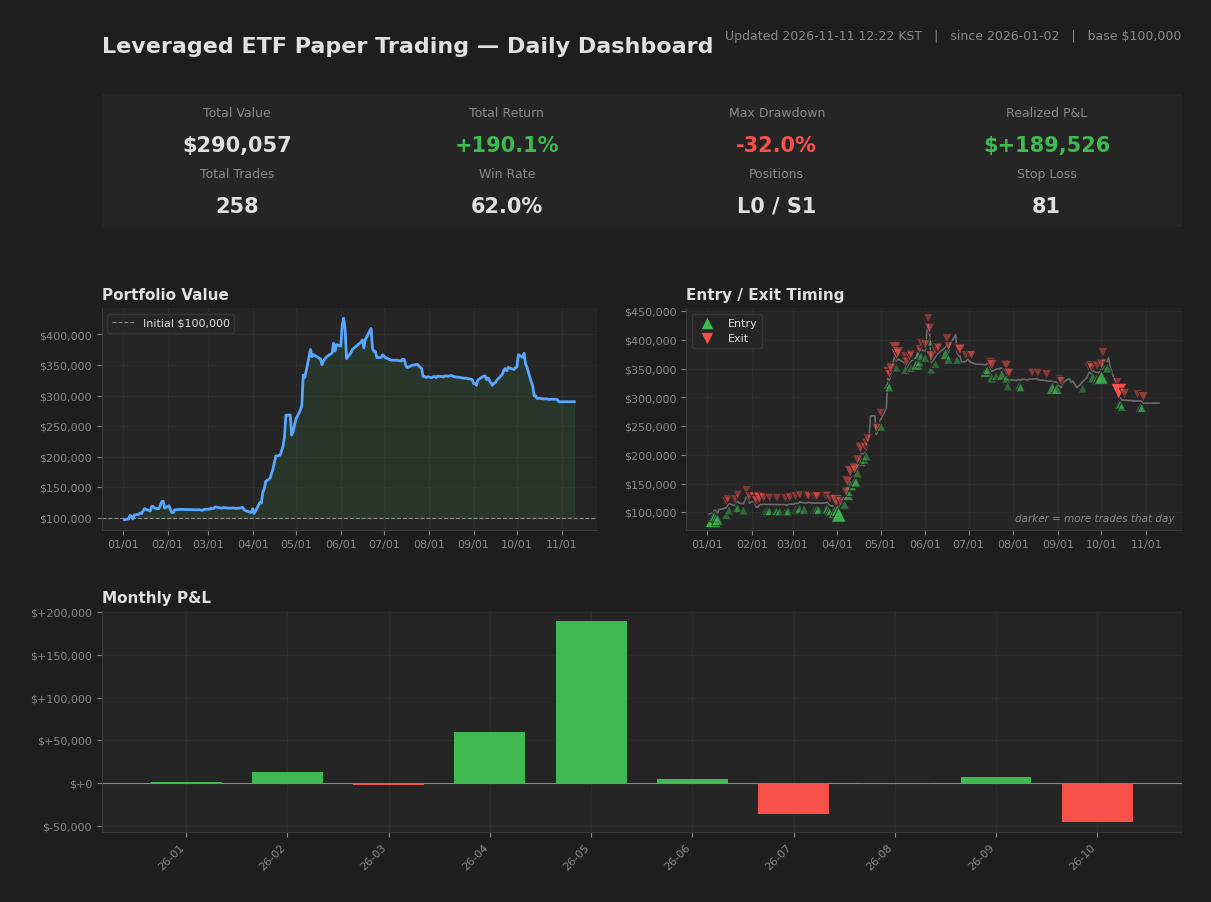
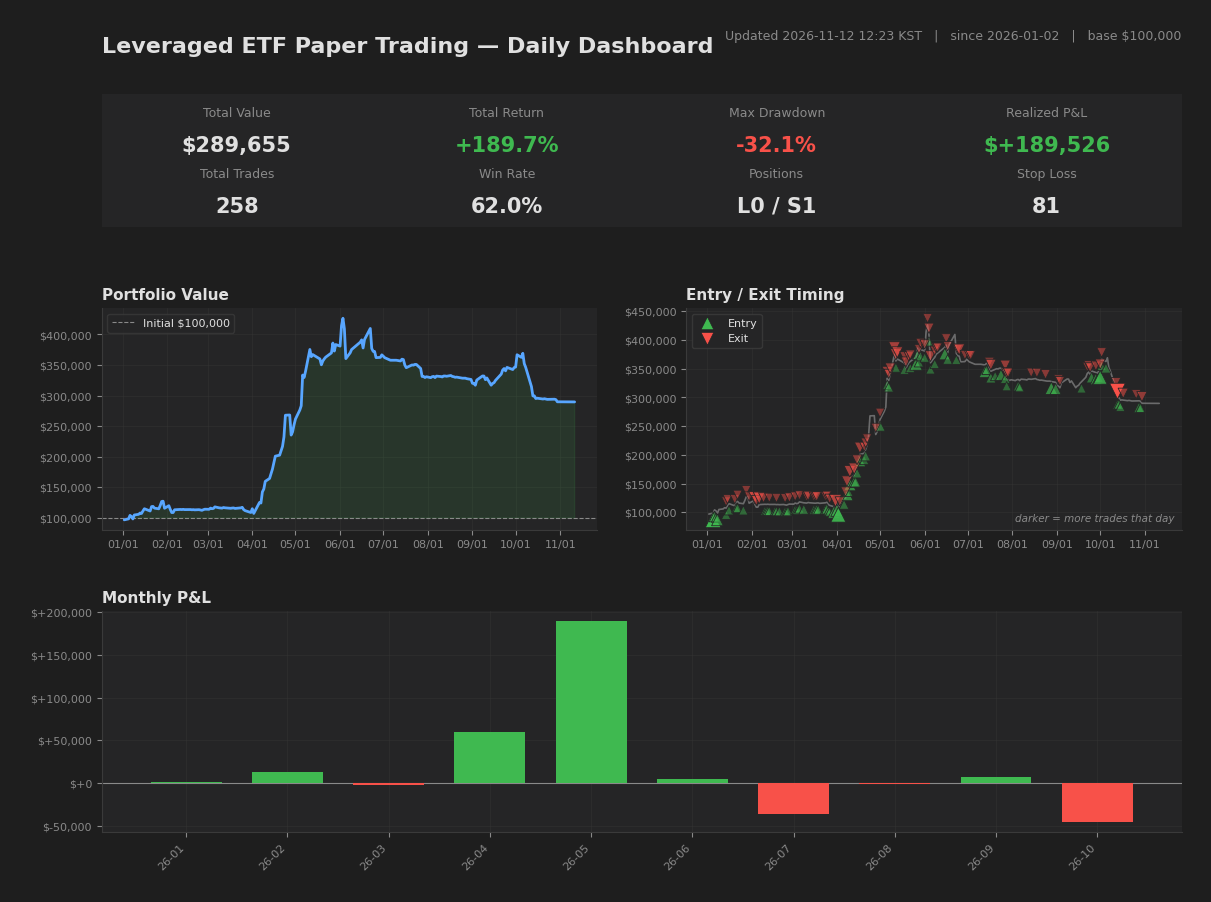
[2026-11-11] Close
Portfolio: $289,655 (+189.7%)
Positions: 1 (L0 S1)
Cumulative: 160/258 wins, P&L: $+189,526

diff --git a/README.md b/README.md
@@ -19,8 +19,8 @@ Focus on risk management, not headline returns. The strategy targets leveraged E
 Drawdown control vs. benchmark. While the benchmark experienced a maximum drawdown of roughly 40–50% over the same period, this strategy's own drawdown is reported below, measured from the paper-trading equity curve and refreshed automatically after each market close.
 
 <!-- METRICS:BEGIN (auto-generated by snapshot_backup.py after each market close; do not edit by hand) -->
-- Maximum drawdown: **-32.02%** (peak 2026-06-03 -> trough 2026-10-30, recovered since)
-- As of **2026-11-10** market close. Updated automatically after each close.
+- Maximum drawdown: **-32.07%** (peak 2026-06-03 -> trough 2026-11-11, still in drawdown at this date)
+- As of **2026-11-11** market close. Updated automatically after each close.
 <!-- METRICS:END -->
 
 Execution costs. Because the strategy holds positions over multi-day periods with low turnover, the impact of slippage and commissions is designed to be limited rather than a primary driver of results.
